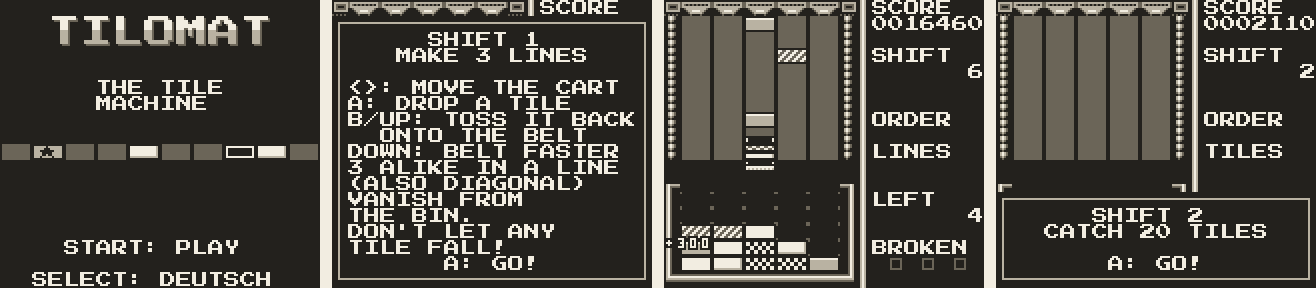
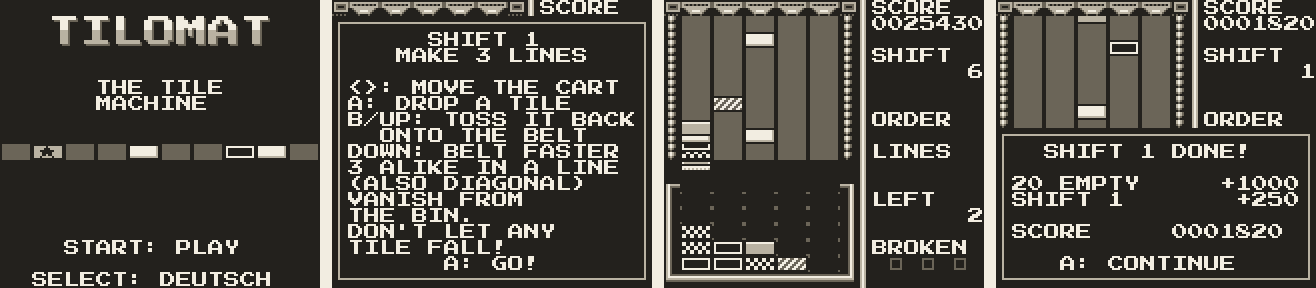
Cart: tiles at full size, overlapping like cards
The tiles on the cart were 4-pixel slabs. Now the top tile is shown
whole, and of each tile below it the lower half: 20 pixels for a full
cart instead of 16. The slab sprites are gone; the screenshots are
retaken (the autoplay run changed, so the frames moved).

diff --git a/src/render.c b/src/render.c
@@ -792,12 +792,14 @@ static void sprites(void)
         t = g.stack_n == CART_MAX ? S_CART_FULL : S_CART;
         spr(x, ROW_CART * 8, t, 0);
         spr(x + 8, ROW_CART * 8, t + 1, 0);
-        for (i = 0; i < g.stack_n; i++) {
+        /* overlapping like cards: the top tile whole, of each one below the lower half; the
+           top tile first, as the sprite drawn first wins where they overlap */
+        for (i = g.stack_n; i--; ) {
             k = KIND(g.stack[i]);
             prop = kind_prop(k);
-            y = ROW_CART * 8 - 4 - 4 * i;
-            spr(x, y, S_SLAB + 2 * (k - 1), prop);
-            spr(x + 8, y, S_SLAB + 2 * (k - 1) + 1, prop);
+            y = ROW_CART * 8 - 8 - 4 * i;
+            spr(x, y, S_KIND + 2 * (k - 1), prop);
+            spr(x + 8, y, S_KIND + 2 * (k - 1) + 1, prop);
         }
     }
     /* broken tiles: fall past the cart, then the shards fly */

diff --git a/tools/gfx.py b/tools/gfx.py
@@ -271,7 +271,7 @@ def to_sprite(rows16):
     return [''.join(m[c] for c in r) for r in rows16]
 
 
-# the tiles as sprites (falling off the belt) and as slabs on the cart (4 pixels high)
+# the tiles as sprites (on the cart and falling off the belt)
 dark = 0
 for k in range(1, KINDS + 1):
     p = kind_pixels(k)
@@ -280,11 +280,6 @@ for k in range(1, KINDS + 1):
     s = to_sprite(p)
     add('S_KIND' if k == 1 else None, spr([r[:8] for r in s]))
     add(None, spr([r[8:] for r in s]))
-for k in range(1, KINDS + 1):
-    s = to_sprite(kind_pixels(k))
-    slab = [s[0], s[2], s[4], s[7]] + [' ' * 16] * 4
-    add('S_SLAB' if k == 1 else None, spr([r[:8] for r in slab]))
-    add(None, spr([r[8:] for r in slab]))
 defines.append(('KIND_DARK', dark))
 
 CART = ['k              k',

diff --git a/tools/shots.py b/tools/shots.py
@@ -29,8 +29,8 @@ PAL = {(255, 255, 255): (0xf2, 0xed, 0xe1), (153, 153, 153): (0xb9, 0xb2, 0xa2),
        (85, 85, 85): (0x6b, 0x65, 0x58), (0, 0, 0): (0x23, 0x21, 0x1d)}
 
 # the good player: name -> frame
-GOOD = {'help': 20, 'play': 2600, 'done': 3330, 'intro': 16380, 'play2': 17900, 'play3': 33000}
-GIF = (17300, 17900)
+GOOD = {'help': 20, 'play': 2600, 'done': 3330, 'intro': 30600, 'play2': 32400, 'play3': 48300}
+GIF = (31800, 32400)
 # the sloppy player (700 of 1000 decisions wrong)
 BAD = {'gameover': 2300}
 # the strip for the README
